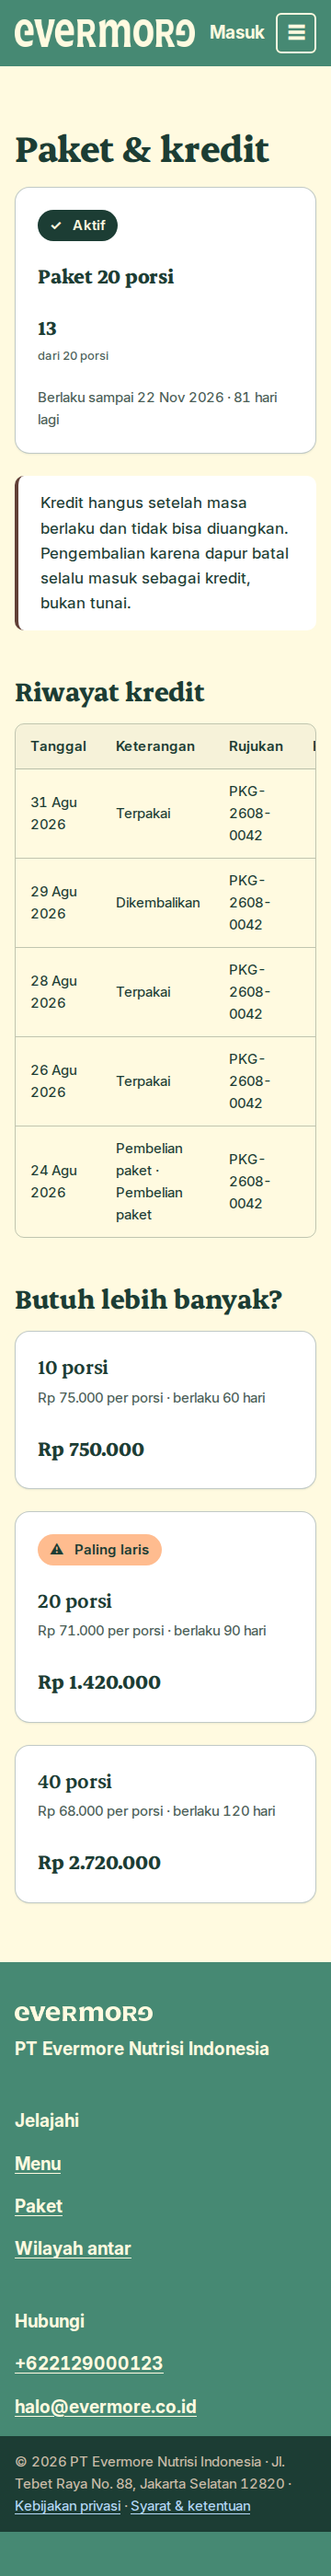
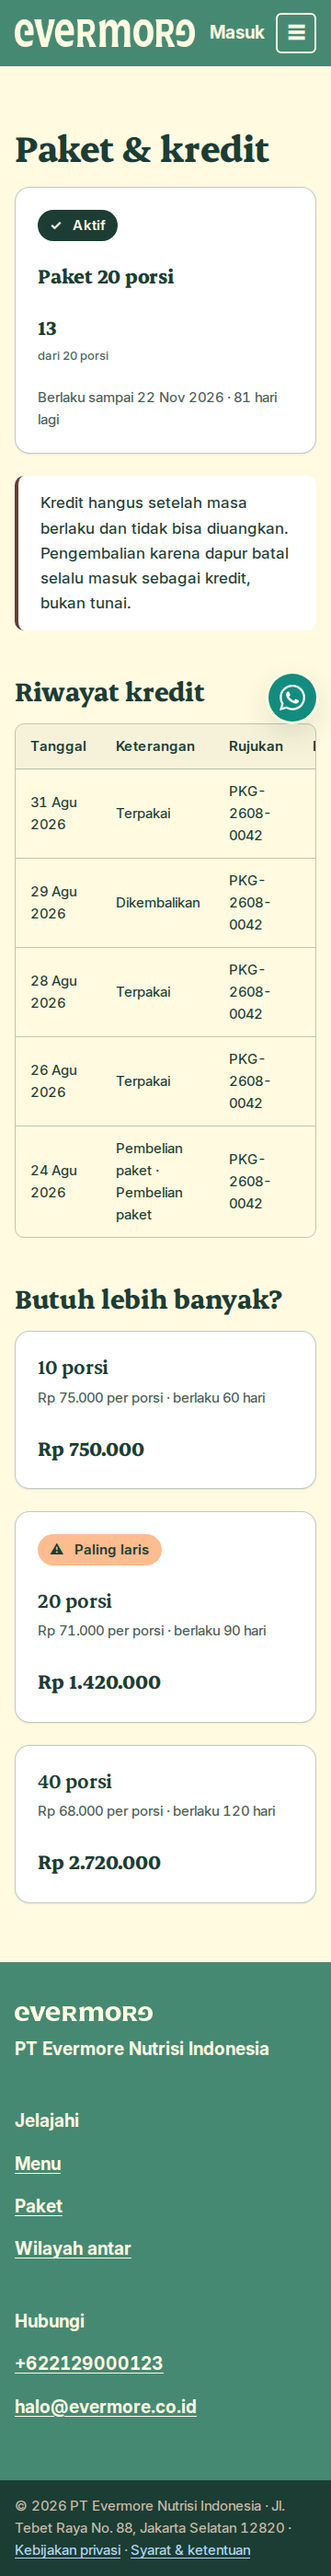
feat(web): WhatsApp float, sticky footer, deep-green menu ground
Three of Steven's requests, plus the firewall fix that was blocking him.

WhatsApp float, bottom right, built to design.md §3 rather than invented:
- #128C7E is WhatsApp's own green and measures 2.87 on the deep ground. That
  is DELIBERATE and documented — recolouring it stops the mark reading as
  WhatsApp. The affordance is the beige ring: 11.32 against the ground, 3.94
  against the teal, both clearing 1.4.11.
- 56px (52px on mobile), safe-area insets, rel=noopener, an accessible name,
  the glyph hidden from assistive tech, hidden in print, motion respected
- number and greeting come from sys_parameters, so they change without a
  deploy; a blank number hides the button rather than rendering a dead link

Sticky footer: body is a flex column at least 100dvh, main takes the slack.
NOT position:fixed — a pinned footer would eat vertical space on a 360px phone
and collide with the float.

/menu now sits on the brand's deep green instead of the beige sheet. Done as a
token remap, because the sheet tokens are wrong there in a way that hides text:
--ink-muted measures 6.69 on beige but 1.69 on the green. Remapped to beige
(11.32), beige-deep (6.47), blue-light (8.15) and a .55 beige border (4.62),
with every element that paints its own light surface restoring the light inks.

Verified by measuring, not looking:
- 28/28 contrast pairings match design.md §3, including the four for the float
- a dedicated probe asserts the float's fill, ring, size, position, accessible
[…]

Changed region(s): [[0.0, 0.9325, 1.0, 1.0], [0.7944, 0.2487, 0.9472, 0.2797]]

diff --git a/web/public/css/app.css b/web/public/css/app.css
@@ -9,8 +9,19 @@
 
 html { -webkit-text-size-adjust: 100%; }
 
+/* Sticky footer: the page is a column at least as tall as the viewport, and
+ * <main> takes the slack. On a short page — a 404, an empty cart — the footer
+ * sits on the bottom edge instead of floating halfway up with dead space
+ * beneath it. It is NOT position:fixed: a permanently pinned footer would eat vertical
+ * space on a 360px phone and collide with the WhatsApp float. */
+html { min-height: 100%; }
+
 body {
   margin: 0;
+  min-height: 100vh;
+  min-height: 100dvh;          /* dvh accounts for mobile browser chrome */
+  display: flex;
+  flex-direction: column;
   background: var(--page-bg);
   color: var(--page-ink);
   font-family: var(--font-body);
@@ -19,6 +30,9 @@ body {
   line-height: 1.6;
   font-variant-numeric: tabular-nums;
 }
+
+main { flex: 1 0 auto; }
+.footer, .footer-fineprint { flex-shrink: 0; }
 
 img, svg, video { max-width: 100%; height: auto; display: block; }
 
@@ -301,9 +315,12 @@ td.num, th.num { text-align: right; font-variant-numeric: tabular-nums; }
   color: var(--beige);
   font-size: var(--text-bar);      /* the bar rule applies to the footer too */
   font-weight: var(--w-eyebrow);
-  padding-block: var(--space-7);
-  /* No top margin: it let the beige page ground show as a stripe between a
-   * dark section and the footer. Sections own their own spacing. */
+  /* Bottom padding is 0: .footer-fineprint is the last child and paints its
+   * own darker ground, so 48px of padding under it left a mid-green band
+   * below the copyright strip at the very bottom of the page. No top margin
+   * either — that let the beige page ground show as a stripe between a dark
+   * section and the footer. */
+  padding-block: var(--space-7) 0;
 }
 .footer a { color: var(--beige); }
 .footer :focus-visible { outline-color: var(--beige); }
@@ -316,6 +333,10 @@ td.num, th.num { text-align: right; font-variant-numeric: tabular-nums; }
   background: var(--nourish-deep); color: var(--beige-deep);
   font-size: var(--text-sm); font-weight: var(--w-body);
   padding-block: var(--space-4);
+  margin-top: var(--space-7);
+  /* Room for the WhatsApp float so it never sits on the copyright line at the
+   * very bottom of a scrolled page. */
+  padding-bottom: max(var(--space-4), env(safe-area-inset-bottom));
 }
 .footer-fineprint a { color: var(--blue-light); }
 
@@ -342,3 +363,164 @@ td.num, th.num { text-align: right; font-variant-numeric: tabular-nums; }
   body { background: #FFFFFF; color: #000000; font-size: 11pt; }
   .card { break-inside: avoid; border: 1px solid #000; }
 }
+
+
+/* ------------------------------------------------------- WhatsApp float */
+
+/* design.md §3 governs every value here and the reasoning is worth keeping
+ * next to the code:
+ *
+ *   - #128C7E is WhatsApp's own green. It measures 2.87 against the deep
+ *     ground, which FAILS 1.4.11 on its own — and that is deliberate. Do not
+ *     recolour it; recolouring stops the mark reading as WhatsApp.
+ *   - The affordance is the BEIGE RING, not the fill: 11.32 against the deep
+ *     ground and 3.94 against the teal. Both clear 3:1, so the control has a
+ *     findable boundary from either side.
+ *   - The glyph is white on the teal at 4.14. It is an icon, so 1.4.11's 3:1
+ *     applies rather than 1.4.3's 4.5.
+ *
+ * scripts/contrast.py measures all four.
+ */
+.wa-float {
+  position: fixed;
+  right: max(var(--space-4), env(safe-area-inset-right));
+  bottom: max(var(--space-4), env(safe-area-inset-bottom));
+  z-index: 90;
+
+  display: inline-flex;
+  align-items: center;
+  justify-content: center;
+  width: 56px;                 /* comfortably over the 44px touch floor */
+  height: 56px;
+  border-radius: 50%;
+
+  background: #128C7E;         /* WhatsApp's own colour — see above */
+  color: #FFFFFF;              /* the glyph */
+  /* The ring is the affordance. 3px so it survives a busy photo behind it. */
+  box-shadow: 0 0 0 3px var(--beige), var(--shadow-lg);
+
+  text-decoration: none;
+  transition: transform .12s ease, box-shadow .12s ease;
+}
+
+.wa-float:hover {
+  transform: scale(1.06);
+  box-shadow: 0 0 0 4px var(--beige), var(--shadow-lg);
+  text-decoration: none;
+}
+
+/* The focus ring must not be the beige ring, which is decoration here and
+ * would be indistinguishable from the resting state. */
+.wa-float:focus-visible {
+  outline: 3px solid var(--nourish-deep);
+  outline-offset: 4px;
+}
+
+.wa-float-glyph { display: block; }
+
+/* On a narrow screen the float sits above the footer's fine print rather than
+ * over it, so it never covers a link. */
+@media (max-width: 480px) {
+  .wa-float { width: 52px; height: 52px; }
+}
+
+@media (prefers-reduced-motion: reduce) {
+  .wa-float, .wa-float:hover { transition: none; transform: none; }
+}
+
+@media print { .wa-float { display: none !important; } }
+
+
+/* ------------------------------------------------- the deep-green ground */
+
+/* A section painted on the brand's deep green instead of the beige sheet.
+ *
+ * This is a TOKEN REMAP, not a set of one-off colours, because the sheet
+ * tokens are wrong here and wrong in a way that hides text:
+ *
+ *     --ink-muted  #4A5D56  measures  6.69 on beige  but  1.69 on the green
+ *     --border     .60 deep measures  3.55 on beige  but  ~1.2 on the green
+ *
+ * Remapped values, all measured (scripts/contrast.py):
+ *     beige       11.32   headings and body
+ *     beige-deep   6.47   muted text
+ *     blue-light   8.15   links
+ *     beige .55    4.62   control borders, clears 1.4.11's 3:1
+ */
+.ground-deep {
+  background: var(--nourish-deep);
+  color: var(--beige);
+
+  --page-ink:      var(--beige);
+  --ink-muted:     var(--beige-deep);
+  --link:          var(--blue-light);
+  --border:        rgba(255, 250, 224, 0.55);
+  --border-subtle: rgba(255, 250, 224, 0.22);
+  --focus-ring:    var(--beige);
+}
+
+.ground-deep h1, .ground-deep h2, .ground-deep h3, .ground-deep h4 { color: var(--beige); }
+
+/* Anything that paints its OWN light surface inside the dark ground must put
+ * the light inks back. Without this the remapped beige-deep lands on a white
+ * card at 1.75 and the muted text disappears — the same collision that made
+ * the packages cards unreadable at 1.05:1. */
+/* NOTE: .chip and .day are deliberately NOT here. They sit transparent on the
+ * dark ground and take beige ink; listing them here too made their sub-label
+ * paint the light #4A5D56 straight onto the green at 1.69. Two rules fighting
+ * over one element is exactly what design.md §4 warns about. */
+.ground-deep .card,
+.ground-deep .searchbox input,
+.ground-deep input[type="text"],
+.ground-deep input[type="search"],
+.ground-deep input[type="number"],
+.ground-deep .callout,
+.ground-deep .table-wrap {
+  --page-ink:      var(--nourish-deep);
+  --ink-muted:     #4A5D56;
+  --link:          var(--blue-deep);
+  --border:        rgba(28, 61, 52, 0.60);
+  --border-subtle: rgba(28, 61, 52, 0.28);
+  color: var(--nourish-deep);
+  background: var(--surface);
+}
+
+.ground-deep .card h1, .ground-deep .card h2,
+.ground-deep .card h3, .ground-deep .card h4 { color: var(--nourish-deep); }
+
+/* The chips and day pills are controls ON the dark ground, so their resting
+ * state is outlined-beige and their selected state is the filled beige — the
+ * inverse of the sheet, and both clear 3:1. */
+.ground-deep .chip,
+.ground-deep .day {
+  background: transparent;
+  color: var(--beige);
+  border-color: var(--beige);
+}
+.ground-deep .chip[aria-current="true"], .ground-deep .chip.is-active,
+.ground-deep .day[aria-current="date"],  .ground-deep .day.is-active {
+  background: var(--beige);
+  color: var(--nourish-deep);
+  border-color: var(--beige);
+}
+/* Resting: beige-deep on the green, 6.47. Selected: the pill is filled beige,
+ * so the sub-label takes the sheet's muted ink at 6.69. */
+.ground-deep .day span { color: var(--beige-deep); }
+.ground-deep .day[aria-current="date"] span,
+.ground-deep .day.is-active span { color: #4A5D56; }
+
+/* The search field keeps a light surface so typed text stays high-contrast. */
+.ground-deep .searchbox input::placeholder { color: #4A5D56; }
+
+.ground-deep .meta { color: var(--beige-deep); }
+.ground-deep .card .meta { color: #4A5D56; }
+.ground-deep .price { color: var(--nourish-deep); }
+.ground-deep .price small { color: #4A5D56; }
+.ground-deep a:not(.btn):not(.chip):not(.day) { color: var(--blue-light); }
+.ground-deep .card a:not(.btn) { color: var(--blue-deep); }
+
+/* On the dark ground the filled button inverts: beige fill, deep ink (11.32). */
+.ground-deep .btn-solid { background: var(--beige); color: var(--nourish-deep); }
+.ground-deep .btn-outline { color: var(--beige); border-color: var(--beige); }
+.ground-deep .card .btn-solid { background: var(--nourish-deep); color: var(--beige); }
+.ground-deep .card .btn-outline { color: var(--nourish-deep); border-color: rgba(28,61,52,.60); }

diff --git a/web/templates/base.html b/web/templates/base.html
@@ -113,6 +113,24 @@
   </div>
 </footer>
 
+{{if .Params.company_whatsapp}}
+{{/* The WhatsApp float. design.md §3 governs every colour here:
+     - the #128C7E fill is WhatsApp's own and measures 2.87 on the deep ground.
+       That is DELIBERATE and must not be "fixed" — recolouring it stops the
+       mark reading as WhatsApp.
+     - the affordance is the BEIGE RING: 11.32 against the ground, 3.94 against
+       the teal, so both clear WCAG 1.4.11.
+     - the white glyph on the teal is 4.14, and an icon needs 3:1, not 4.5. */}}
+<a class="wa-float" href="https://wa.me/{{.Params.company_whatsapp}}?text={{.WhatsAppGreeting}}"
+   target="_blank" rel="noopener noreferrer">
+  <span class="visually-hidden">Hubungi kami lewat WhatsApp (buka di tab baru)</span>
+  <svg class="wa-float-glyph" viewBox="0 0 24 24" width="28" height="28"
+       aria-hidden="true" focusable="false" fill="currentColor">
+    <path d="M17.472 14.382c-.297-.149-1.758-.867-2.03-.967-.273-.099-.471-.148-.67.15-.197.297-.767.966-.94 1.164-.173.199-.347.223-.644.075-.297-.149-1.255-.463-2.39-1.475-.883-.788-1.48-1.761-1.653-2.059-.173-.297-.018-.458.13-.606.134-.133.298-.347.446-.52.149-.174.198-.298.298-.497.099-.198.05-.371-.025-.52-.075-.149-.669-1.612-.916-2.207-.242-.579-.487-.5-.669-.51l-.57-.01c-.198 0-.52.074-.792.372-.272.297-1.04 1.016-1.04 2.479 0 1.462 1.065 2.875 1.213 3.074.149.198 2.096 3.2 5.077 4.487.709.306 1.262.489 1.694.625.712.227 1.36.195 1.872.118.571-.085 1.758-.719 2.006-1.413.248-.694.248-1.289.173-1.413-.074-.124-.272-.198-.57-.347m-5.421 7.403h-.004a9.87 9.87 0 01-5.031-1.378l-.361-.214-3.741.982.998-3.648-.235-.374a9.86 9.86 0 01-1.51-5.26c.001-5.45 4.436-9.884 9.888-9.884a9.82 9.82 0 016.988 2.898 9.825 9.825 0 012.893 6.994c-.003 5.45-4.437 9.884-9.885 9.884m8.413-18.297A11.815 11.815 0 0012.05 0C5.495 0 .16 5.335.157 11.892c0 2.096.547 4.142 1.588 5.945L.057 24l6.305-1.654a11.882 11.882 0 005.683 1.448h.005c6.554 0 11.89-5.335 11.893-11.893a11.821 11.821 0 00-3.48-8.413Z"/>
+  </svg>
+</a>
+{{end}}
+
 <script src="/js/app.js" defer></script>
 </body>
 </html>{{end}}

diff --git a/web/templates/menu.html b/web/templates/menu.html
@@ -1,5 +1,5 @@
 {{define "content"}}
-<section class="section">
+<section class="section ground-deep">
   <div class="container">
     <div class="section-head">
       <div>

diff --git a/scripts/contrast.py b/scripts/contrast.py
@@ -132,6 +132,14 @@ CHECKS: list[tuple[str, str, str, dict]] = [
     ("deep ink on gold ribbon", NOURISH_DEEP, "#D4AF37", {}),
     ("deep ink on orange-deep button", NOURISH_DEEP, "#E0782D", {"large": True}),
     ("black on orange-deep button", "#000000", "#E0782D", {"large": True}),
+
+    # The WhatsApp float (design.md §3). The teal is WhatsApp's own colour and
+    # is NOT recoloured: the affordance is the beige ring, and the glyph is an
+    # icon, so 1.4.11's 3:1 applies rather than 4.5.
+    ("WA teal fill on the deep ground", "#128C7E", NOURISH_DEEP, {"non_text": True}),
+    ("WA beige ring on the deep ground", BEIGE, NOURISH_DEEP, {"non_text": True}),
+    ("WA beige ring against the teal", BEIGE, "#128C7E", {"non_text": True}),
+    ("WA white glyph on the teal", WHITE, "#128C7E", {"non_text": True}),
 ]
 
 # What design.md §3 records. A drift between the sheet and the arithmetic is
@@ -162,6 +170,10 @@ RECORDED = {
     "deep ink on gold ribbon": 5.65,
     "deep ink on orange-deep button": 3.90,
     "black on orange-deep button": 6.89,
+    "WA teal fill on the deep ground": 2.87,
+    "WA beige ring on the deep ground": 11.32,
+    "WA beige ring against the teal": 3.94,
+    "WA white glyph on the teal": 4.14,
 }
 
 

diff --git a/internal/app/seed/seed.go b/internal/app/seed/seed.go
@@ -164,6 +164,11 @@ func (s *seeder) sysParameters() error {
 		{"company.name", "PT Evermore Nutrisi Indonesia", "string", "company", "Nama perusahaan"},
 		{"company.brand", "Evermore", "string", "company", "Nama merek"},
 		{"company.phone", "+622129000123", "string", "company", "Telepon perusahaan"},
+		// The floating WhatsApp button reads this. Digits only, country code
+		// first, no plus — that is the wa.me format. A blank value hides the
+		// button rather than rendering a broken link.
+		{"company.whatsapp", "6281299900123", "string", "company", "Nomor WhatsApp (format wa.me, tanpa +)"},
+		{"company.whatsapp_greeting", "Halo Evermore, saya mau tanya soal menu.", "string", "company", "Pesan pembuka WhatsApp"},
 		{"company.email", "halo@evermore.co.id", "string", "company", "Email perusahaan"},
 		{"company.address", "Jl. Tebet Raya No. 88, Jakarta Selatan 12820", "string", "company", "Alamat perusahaan"},
 		{"company.npwp", "00.000.000.0-000.000", "string", "company", "NPWP"},

diff --git a/internal/adapter/http/public.go b/internal/adapter/http/public.go
@@ -278,10 +278,13 @@ type pageData struct {
 	MenuWeek  []MenuDay
 	WeekLabel string
 	ThisWeek  string
-	PrevWeek  string
-	NextWeek  string
-	Flash     string
-	FlashKind string
+
+	// WhatsAppGreeting is the pre-filled wa.me message, URL-encoded.
+	WhatsAppGreeting string
+	PrevWeek         string
+	NextWeek         string
+	Flash            string
+	FlashKind        string
 }
 
 type alternate struct {
@@ -323,6 +326,10 @@ func (h *renderer) base(c *gin.Context, params map[string]string, nav, title, de
 		Year:         time.Now().In(h.cfg.Location).Year(),
 		Params:       tplParams,
 		CutOff:       params["order.cutoff_time"],
+		// Passed RAW. html/template percent-encodes it for the URL attribute
+		// context on its own; pre-encoding here produced a double-encoded
+		// link (%2C became %252C) that WhatsApp rendered as literal escapes.
+		WhatsAppGreeting: params["company.whatsapp_greeting"],
 	}
 }
 
